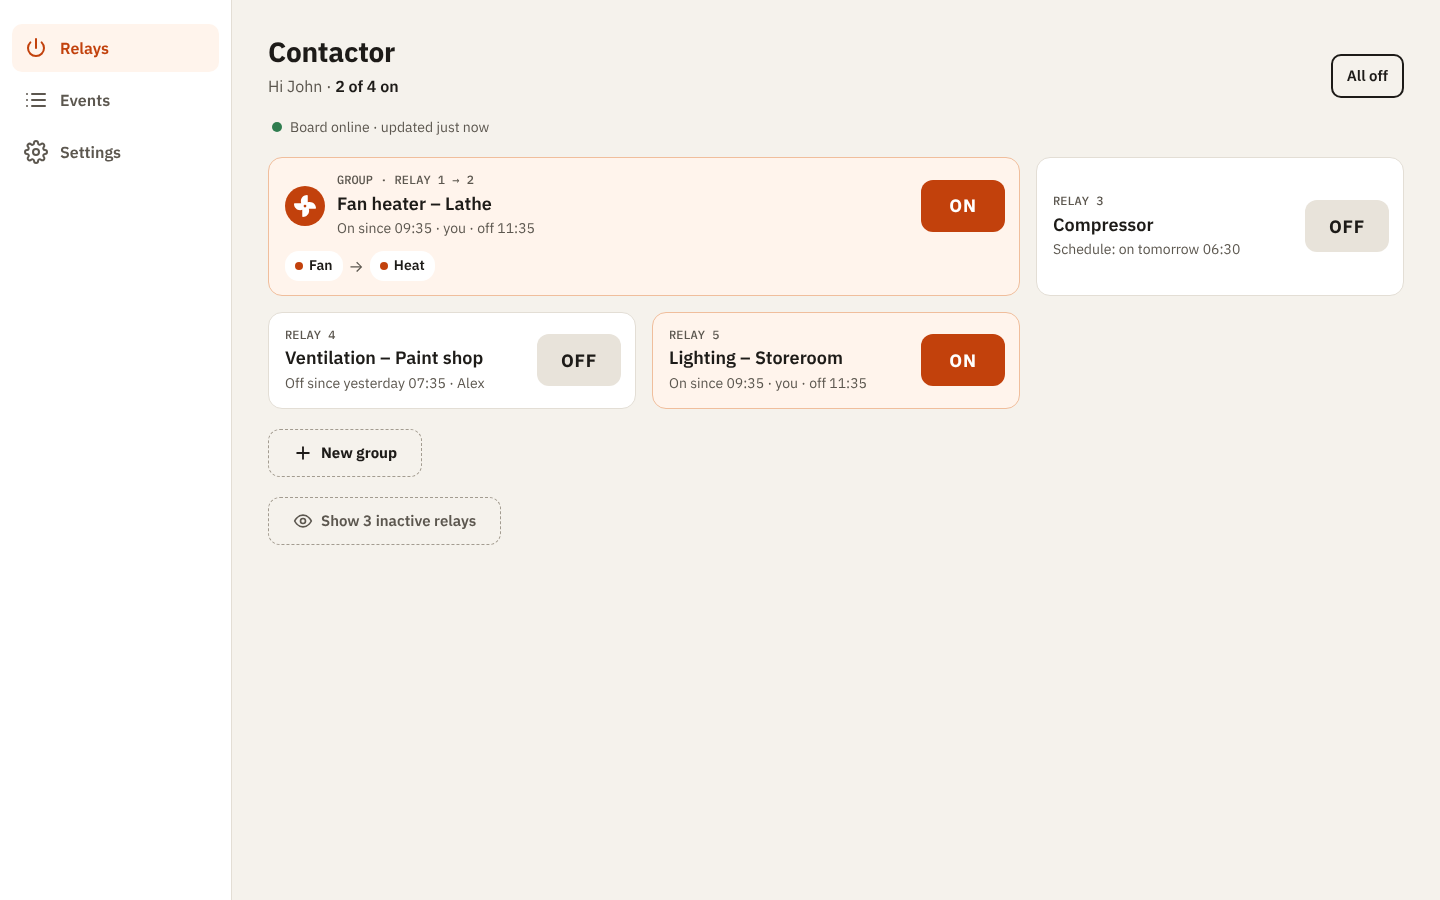
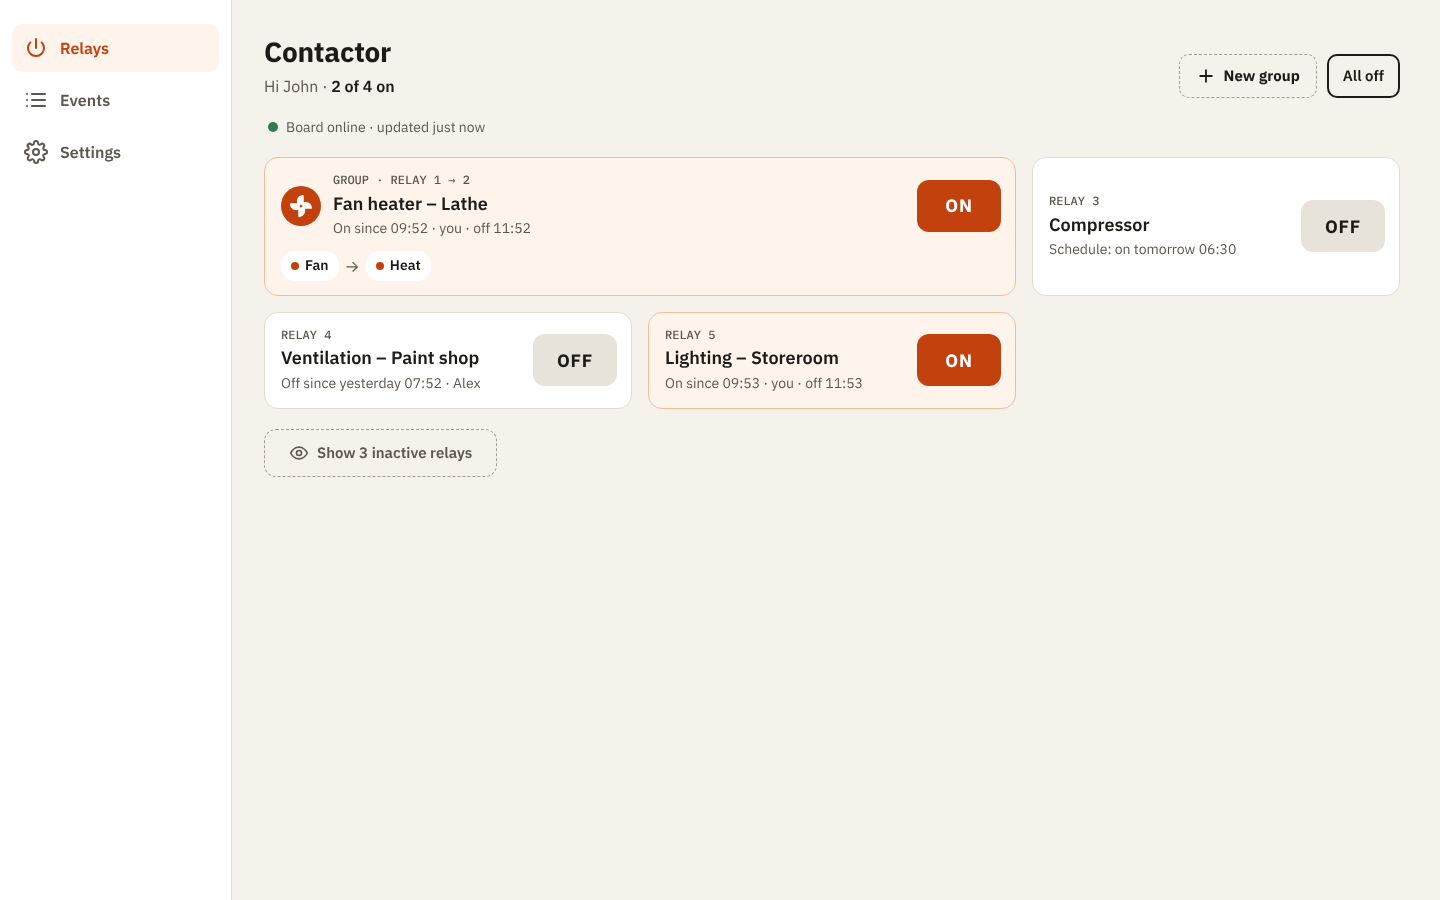
Line the desktop pages up beside the side menu
Settings, Events and Debug are as wide as Relays, and every page with the
side menu starts right beside it. Settings has its cards in two columns,
packed at the top. On a desktop, New group sits in the Relays header.

diff --git a/Contactor.Web/Components/Relays.razor.css b/Contactor.Web/Components/Relays.razor.css
@@ -39,6 +39,17 @@ h1 {
     font-weight: 600;
 }
 
+.actions {
+    display: flex;
+    align-items: center;
+    gap: 10px;
+    flex-shrink: 0;
+}
+
+.new-group.in-header {
+    display: none;
+}
+
 .all-off {
     min-height: 44px;
     padding: 0 14px;
@@ -360,10 +371,21 @@ button:disabled {
         gap: 16px;
     }
 
-    .new-group,
     .show-inactive {
         justify-self: start;
         padding: 0 24px;
+    }
+
+    .new-group {
+        display: none;
+    }
+
+    .new-group.in-header {
+        display: flex;
+        min-height: 44px;
+        margin: 0;
+        padding: 0 16px;
+        border-radius: 10px;
     }
 }
 

diff --git a/Contactor.Web/Components/Settings.razor.css b/Contactor.Web/Components/Settings.razor.css
@@ -242,9 +242,24 @@ button:disabled {
     text-align: center;
 }
 
-/* A tablet or a desktop: the same screen, wider. */
+/* A tablet: the same screen, wider. A desktop: as wide as Relays and lined up with it, the cards in two columns. */
 @media (min-width: 768px) {
     .screen {
         max-width: 720px;
+    }
+}
+
+@media (min-width: 1024px) {
+    .screen {
+        max-width: 1200px;
+        padding: 12px 12px 0;
+    }
+
+    .content {
+        display: grid;
+        grid-template-columns: repeat(2, minmax(0, 1fr));
+        align-content: start;
+        align-items: start;
+        gap: 16px;
     }
 }

diff --git a/Contactor.Web/wwwroot/app.css b/Contactor.Web/wwwroot/app.css
@@ -185,10 +185,15 @@ a {
 }
 
 /* Wider screens (CLAUDE.md, User interface): a tablet from 768 px, a desktop from 1024 px. On a desktop the tab bar
-   becomes a side menu (TabBar.razor.css), so the pages that have one make room for it. */
+   becomes a side menu (TabBar.razor.css), so the pages that have one make room for it and start right beside it,
+   rather than centred in the space that is left. */
 @media (min-width: 1024px) {
     body:has(nav.tabs) {
         padding-left: var(--side-menu);
+    }
+
+    body:has(nav.tabs) .screen {
+        margin-left: 0;
     }
 }
 

diff --git a/Contactor.Web/Components/Debug.razor.css b/Contactor.Web/Components/Debug.razor.css
@@ -113,9 +113,16 @@ h1 {
     color: var(--danger-ink);
 }
 
-/* A tablet or a desktop: the same screen, wider. */
+/* A tablet: the same screen, wider. A desktop: as wide as Relays and lined up with it, beside the side menu. */
 @media (min-width: 768px) {
     .screen {
         max-width: 960px;
+    }
+}
+
+@media (min-width: 1024px) {
+    .screen {
+        max-width: 1200px;
+        padding: 12px 12px 0;
     }
 }

diff --git a/Contactor.Web/Components/Events.razor.css b/Contactor.Web/Components/Events.razor.css
@@ -169,9 +169,16 @@ h2 {
     opacity: 0.45;
 }
 
-/* A tablet or a desktop: the same screen, wider. */
+/* A tablet: the same screen, wider. A desktop: as wide as Relays and lined up with it, beside the side menu. */
 @media (min-width: 768px) {
     .screen {
         max-width: 960px;
+    }
+}
+
+@media (min-width: 1024px) {
+    .screen {
+        max-width: 1200px;
+        padding: 12px 12px 0;
     }
 }

diff --git a/CLAUDE.md b/CLAUDE.md
@@ -358,7 +358,7 @@ Mobile first (390 px), and it uses the space on a tablet and a desktop. All UI t
 **Three layouts**, by width only (Tailwind's `md` and `lg`), in each screen's `.razor.css` and `app.css`:
 - **Phone, under 768 px:** one column, the tab bar at the bottom.
 - **Tablet, 768 px and up:** wider screens. On Relays the cards are in two columns, with a group across both. The tab bar stays at the bottom.
-- **Desktop, 1024 px and up** (a tablet in landscape too): the tab bar becomes a side menu on the left (`TabBar.razor.css`; pages with it get `padding-left: var(--side-menu)` through `body:has(nav.tabs)`, so the side menu is only used where the browser supports `:has`; older browsers keep the bottom tab bar). Relays has two columns, and three from 1280 px, with a group spanning two. Relay and Group have two columns, the events on the right. Events and Debug go up to 960 px wide, Settings to 720 px. Forms (schedule, new group) stay narrow, at 560 px.
+- **Desktop, 1024 px and up** (a tablet in landscape too): the tab bar becomes a side menu on the left (`TabBar.razor.css`; pages with it get `padding-left: var(--side-menu)` through `body:has(nav.tabs)`, so the side menu is only used where the browser supports `:has`; older browsers keep the bottom tab bar). Relays has two columns, and three from 1280 px, with a group spanning two. Relay and Group have two columns, the events on the right. On a tablet Events and Debug go up to 960 px wide and Settings to 720 px; on a desktop every page with the side menu starts right beside it, is up to 1200 px wide, lined up with Relays, and Settings has its cards in two columns. On a desktop "New group" sits in the Relays header beside "All off". Forms (schedule, new group) stay narrow, at 560 px.
 - **Mouse and keyboard:** hover states and a visible `:focus-visible` ring on buttons and links (inputs keep the browser's own). Touch targets stay at least 44 px. The no-zoom rules apply on every width.
 
 **No zoom.** The pages don't zoom, so nobody zooms in by mistake and loses the big buttons: `user-scalable=no` in the viewport (Android's Chrome follows it), `touch-action: manipulation` against double-tap zoom, and `wwwroot/phone.js`, which cancels the two-finger pinch on iOS, where every browser ignores `user-scalable=no`. Anyone who needs to enlarge can use the phone's own zoom (on iOS: Settings → Accessibility → Zoom).
